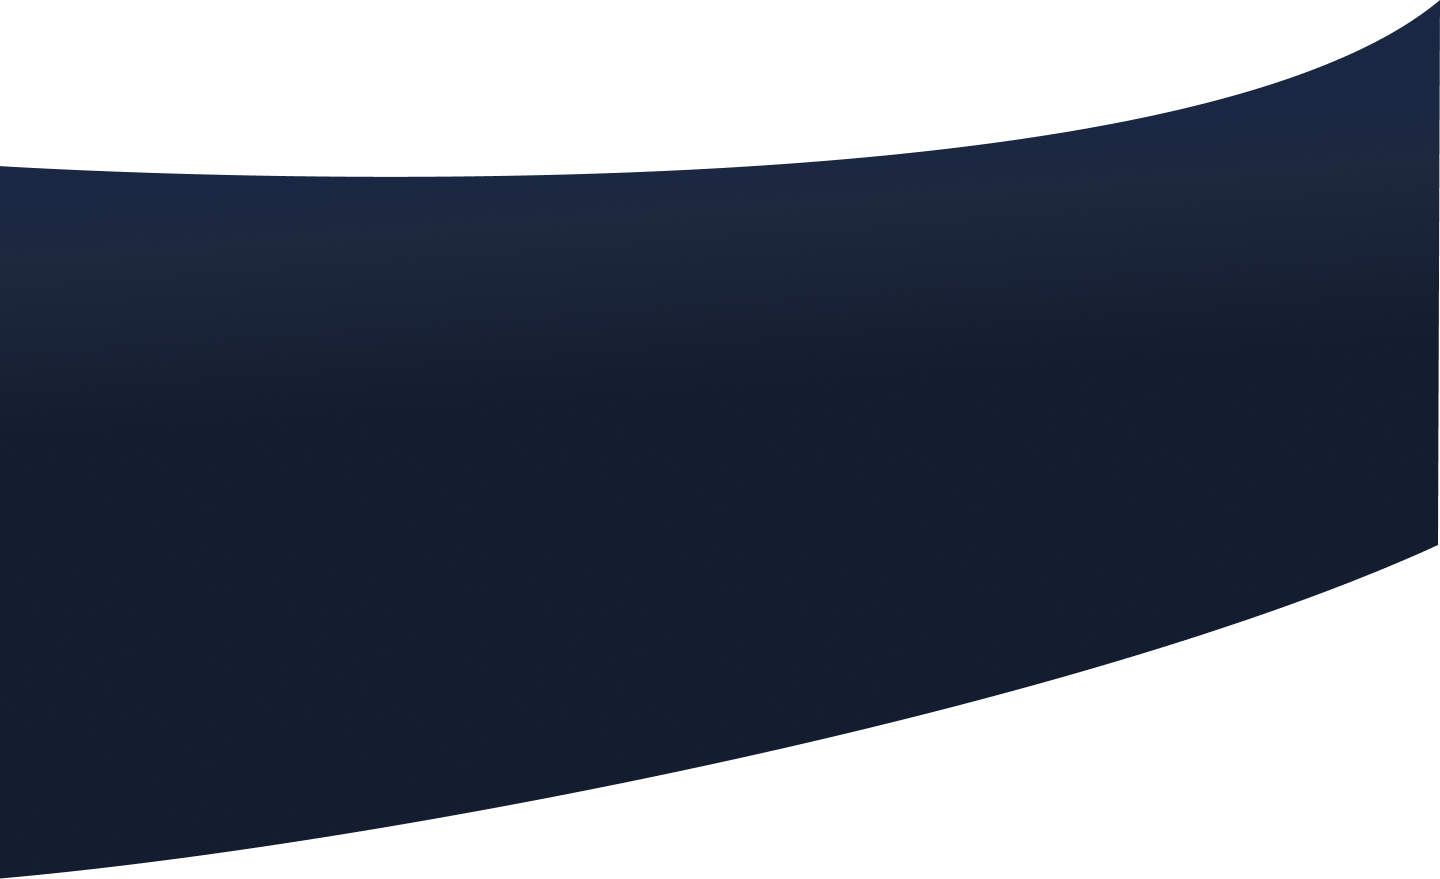
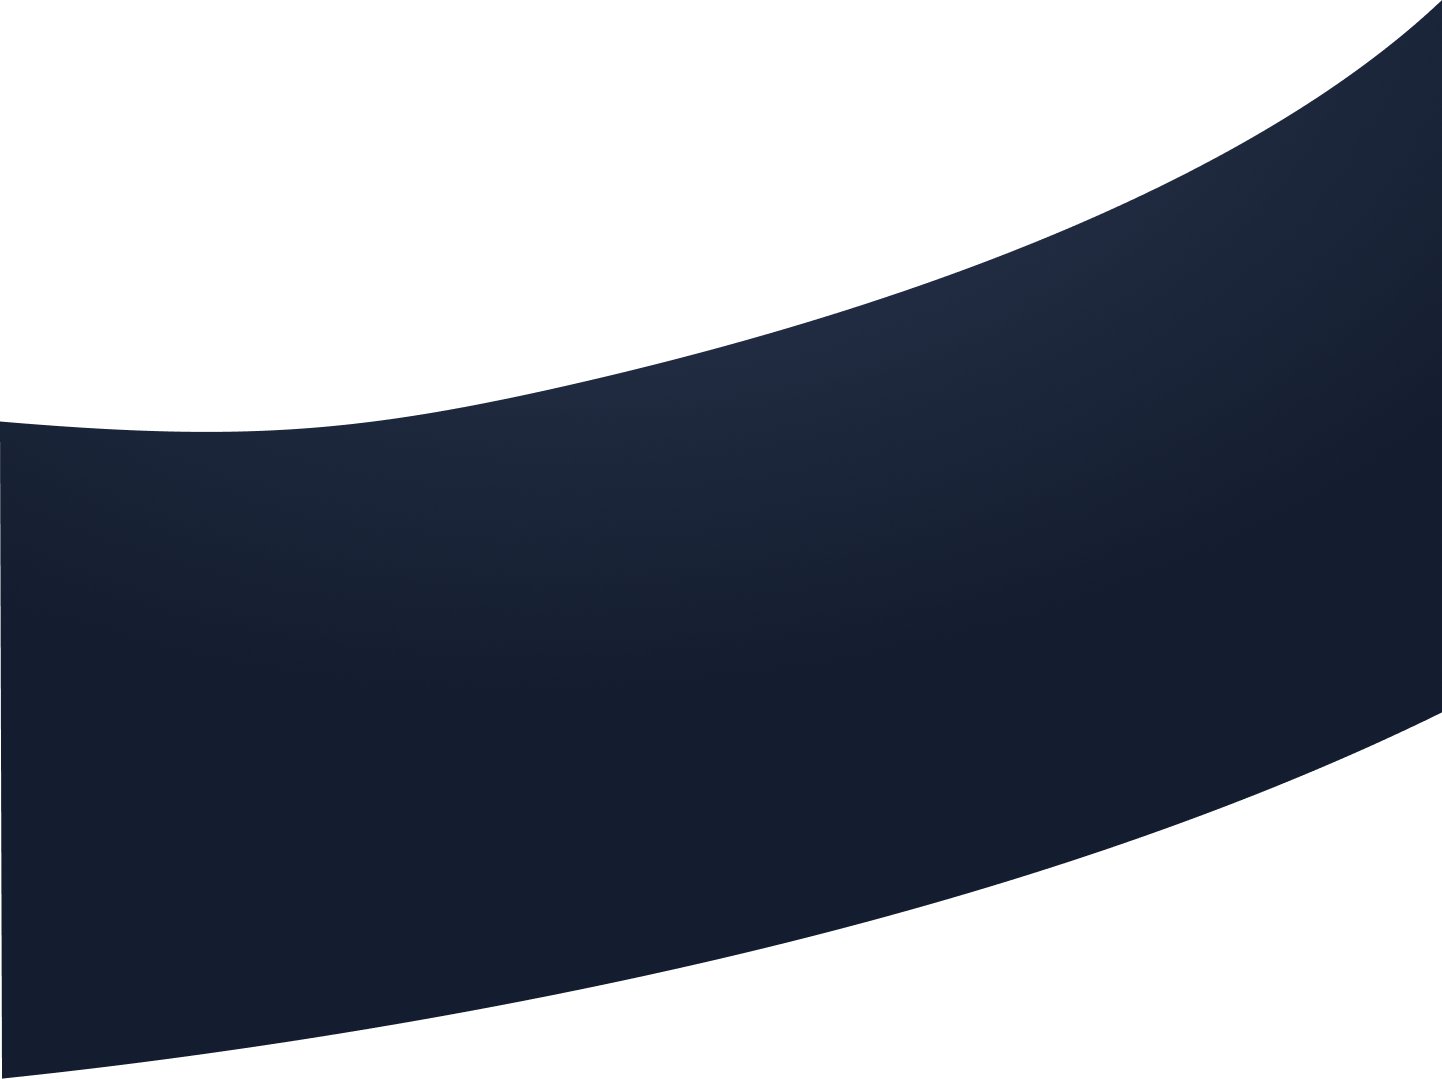
addded responsiv design

diff --git a/src/app/main-content/about-me/about-me.component.scss b/src/app/main-content/about-me/about-me.component.scss
@@ -1,7 +1,7 @@
 .about-me-cont {
     width: 1920px;
     max-width: 100%;
-    height: 900px;
+    height: 600px;
     position: absolute;
     left: calc(50vw - 960px); 
     background-color: #141d2f;
@@ -62,12 +62,21 @@ h1 {
     background-color: green;
     display: flex;
     justify-content: center;
+    img {
+        object-fit: cover;
+        z-index: 10;
+        position: relative;
+        margin-left: 80px;
+    }
 }
 
 .backgr-img {
-    width: 100vw;
+    width: 100%;
+    height: 400px;
     position: absolute;
+    bottom: -870px;
     left: 0;
+    z-index: 10;
 }
 
 @media(max-width:1920px){
@@ -76,5 +85,35 @@ h1 {
         max-width: 100%;
         left: 0;
     }
-   
+}
+
+@media(max-width:1500px){
+    .img-cont {
+        img {
+            margin-left: -100px;
+        }
+    }
+}
+
+@media(max-width:1300px){
+    .img-cont {
+        img {
+            margin-left: -200px;
+        }
+    }
+}
+
+@media(max-width:1150px){
+    .about-me-cont {
+        justify-content: flex-start;
+        align-items: center;
+        flex-direction: column-reverse;
+    }
+
+    .img-cont {
+        position: absolute;
+        img {
+            z-index: 11;
+        }
+    }
 }

diff --git a/src/app/main-content/about-me/about-me.component.html b/src/app/main-content/about-me/about-me.component.html
@@ -37,7 +37,7 @@
     <div class="img-cont">
         <img src="../../../assets/img/hero character photo.png">
     </div>
-    <div>
-        <img class="backgr-img" src="../../../assets/img/Vector (2).png">
-    </div>
+</div>
+<div>
+    <img class="backgr-img" src="../../../assets/img/Vector (2).png">
 </div>
